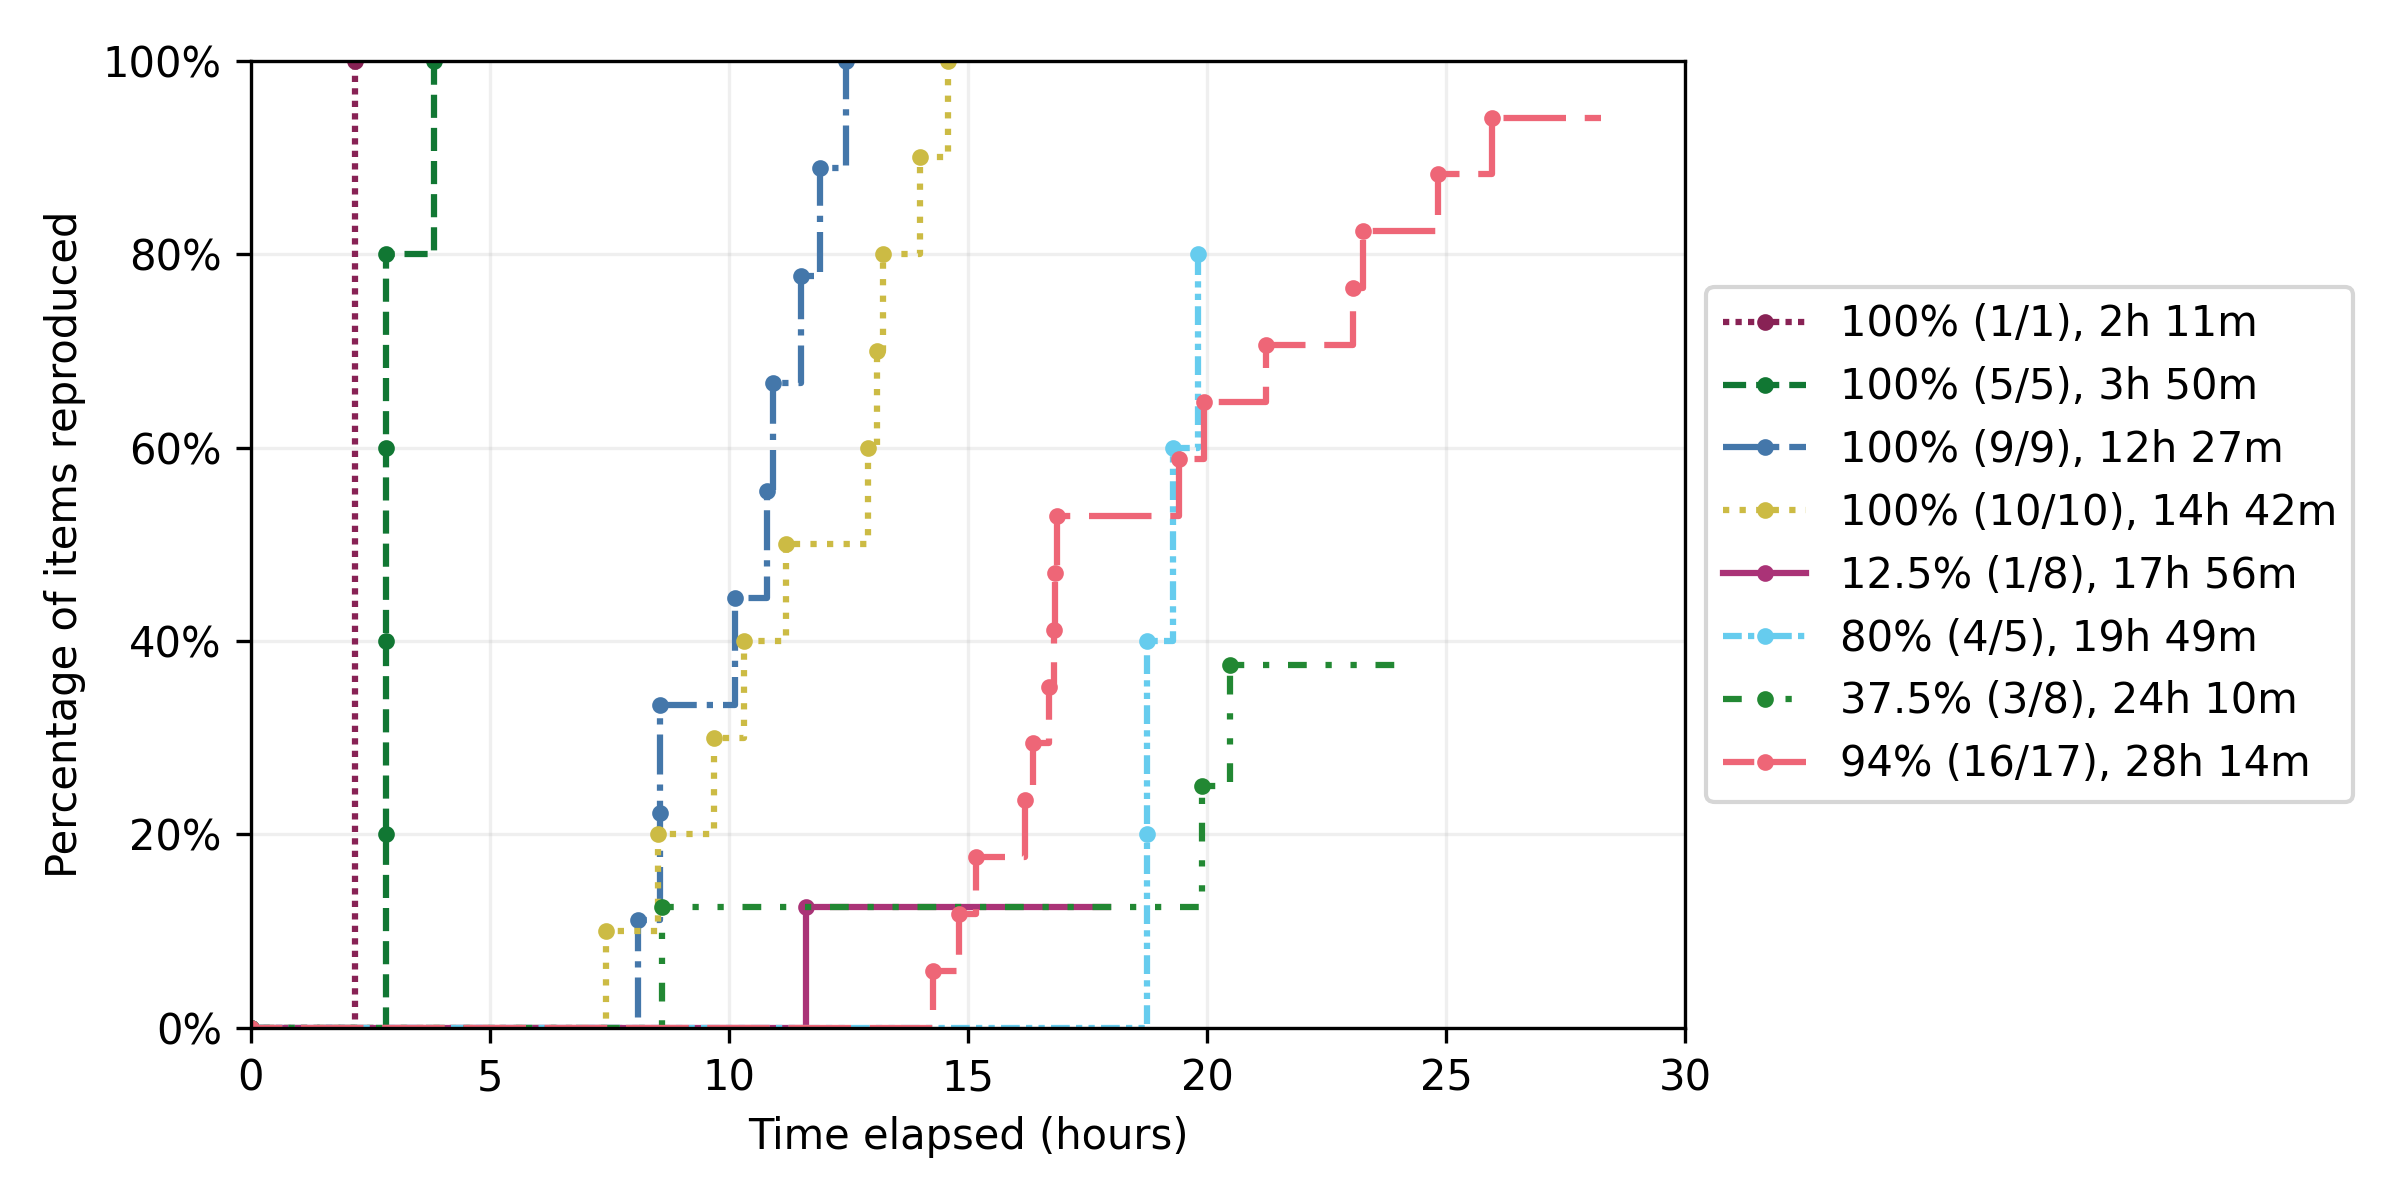
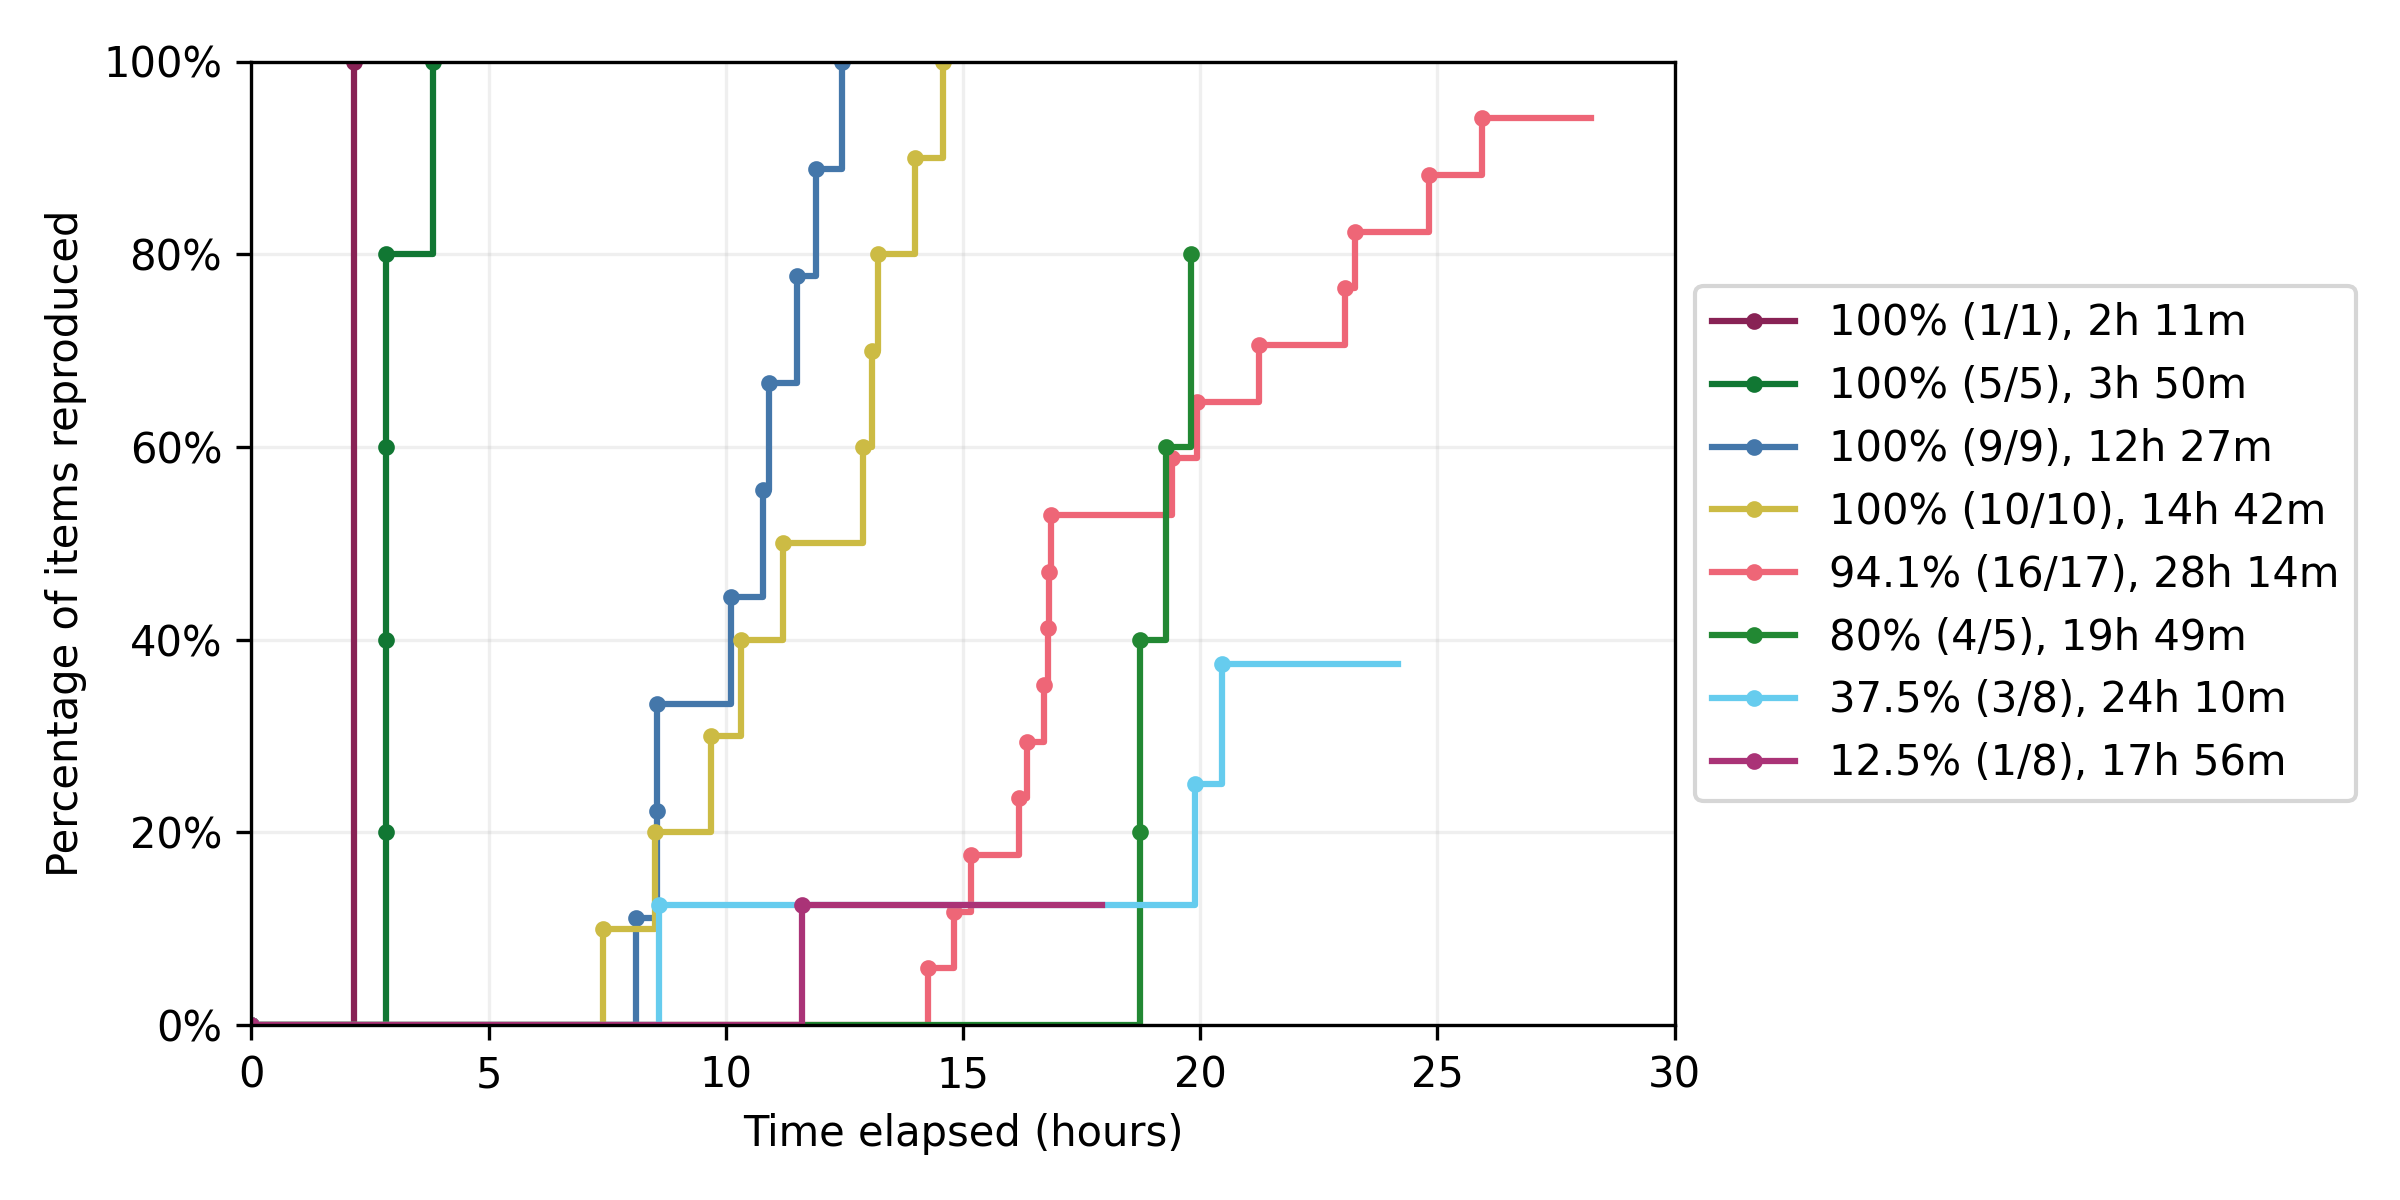
feat(figure): Remove line types on time-to-reproduction figure

diff --git a/pages/functions.py b/pages/functions.py
@@ -115,7 +115,7 @@ def success_interactive(times_df, fig, label, colour):
             '%{hovertext}<br>Time: %{x:.1f} hours<br>Completion: %{y:.1f}%')))
 
 
-def success_static(times_df, ax, label, colour, ls):
+def success_static(times_df, ax, label, colour):
     '''
     Create static/non-interactive plot of time-to-completion
 
@@ -129,11 +129,9 @@ def success_static(times_df, ax, label, colour, ls):
         Label for the line
     colour : string
         Colour of line
-    ls : string or tuple
-        Line style
     '''
     ax.plot(times_df['hours'], times_df['ecdf'],
-            marker='.', markevery=2, linestyle=ls,
+            marker='.', markevery=2,
             label=label.replace('<br>', '\n'), color=colour)
 
 
